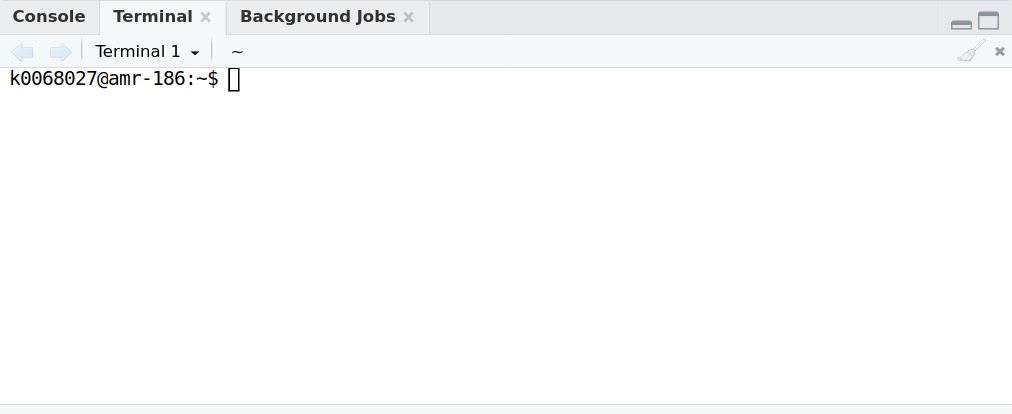
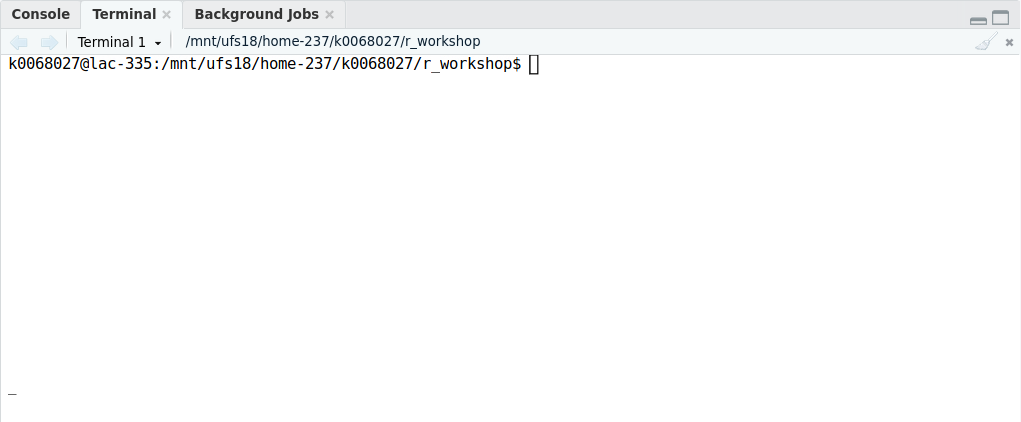
markdown source builds
Auto-generated via `{sandpaper}`
Source  : 78443e749830fc399d4e143f20efeb40afe028f5
Branch  : main
Author  : Craig Gross <craig@c-gross.net>
Time    : 2025-01-10 18:03:34 +0000
Message : Update recommendations for node types

Changed region(s): [[0.0, 0.0, 0.5514, 0.2319], [0.919, 0.029, 1.0, 0.1739], [0.0, 0.9565, 0.0306, 0.9855]]

diff --git a/rstudio-server-ondemand.md b/rstudio-server-ondemand.md
@@ -47,8 +47,9 @@ Go to the Interactive Apps tab and select RStudio Server (beta).
 
 In ICER's OnDemand interface, we use RStudio Server instead of just RStudio.
 This is a version of RStudio that runs on compute nodes and opens in your
-browser. Though it is possible to run plain RStudio on the HPCC, the Server
-version is as it displays more clearly and is easier to copy and paste into.
+browser. Though it is possible to run plain RStudio on the HPCC, we use the
+Server version is as it displays more clearly and is easier to copy and paste
+into.
 
 For the rest of this page, when we refer to "RStudio", we really mean "RStudio
 Server".
@@ -65,9 +66,14 @@ job. For this workshop, you should use the following options:
 
 ![](fig/rstudio-server-ondemand-options.png){alt='The RStudio OnDemand setup screen with text boxes for the four options listed above filled in using the values specified.'}
 
+Additionally, click the Advanced Options checkbox and under Node type,
+select "intel16" (we'll explain why later).
+
+![](fig/rstudio-node-selection.png){alt='The RStudio OnDemand setup screen with the Advanced Options box checked, and intel16 selected in the Node type dropdown.'}
+
 If you need to specify any other options (for example, if you want to run your
-session on a buy-in node and specify your SLURM account), you can click the
-Advanced Options checkbox and enter additional information.
+session on a buy-in node and specify your SLURM account), you enter additional
+information in the Advanced Options section.
 
 Select the Launch button and wait for your job to start. When your job is ready,
 you will see a card with all of the information for your job. The most important
@@ -75,7 +81,7 @@ fields for now are the Host which is the node on the HPCC where you job is
 running and the Time Remaining which counts down from the requested number of
 hours.
 
-![](fig/running-rstudio-server-job.png){alt="An OnDemand card with the information for a running RStudio job. The Host is amr-186, and the Time Remaining is 2 hours and 59 minutes."}
+![](fig/running-rstudio-server-job.png){alt="An OnDemand card with the information for a running RStudio job. The Host is lac-335, and the Time Remaining is 2 hours and 59 minutes."}
 
 When you're ready to access RStudio, you can click the Launch RStudio Server
 button. If you ever navigate away from this screen, you can always return to it
@@ -125,7 +131,7 @@ Handily, RStudio provides a terminal for you to use! Right next to the R
 console, is a Terminal tab. Clicking this tab will start a terminal on the same
 node that RStudio is running on.
 
-![](fig/rstudio-terminal.png){alt="The terminal tab in RStudio showing a terminal connected to the host amr-186."}
+![](fig/rstudio-terminal.png){alt="The terminal tab in RStudio showing a terminal connected to the host lac-335."}
 
 
 ### SSH

diff --git a/r-slurm-jobs.md b/r-slurm-jobs.md
@@ -48,6 +48,7 @@ The options let you specify things like
 - The number of cores you want to run your code on, e.g., `#SBATCH --cpus-per-task=8` for 8 cores
 - The number of nodes you need to run your code on, e.g., `#SBATCH --nodes=2` for 2 nodes
 - The amount of memory your code will need, e.g., `#SBATCH --mem=10GB` for 10GB or `--mem-per-cpu=750MB` for 750MB per core you ask for
+- The node type, e.g., `#SBATCH --constraint=intel16` to run your code only on intel16 nodes
 - The SLURM account you want to use (if you have a buy-in node), e.g., `#SBATCH --account=my_buyin` to activate the buy-in nodes associated to the `my_buyin` account
 
 Finally, you will add your code below these `#SBATCH`.
@@ -62,6 +63,7 @@ This code is exactly what you would enter on the command line to run your R scri
 #SBATCH --cpus-per-task=1  # Use 1 core
 #SBATCH --mem-per-cpu=500MB  # Use 500MB of memory per core requested
 #SBATCH --nodes=1  # Use 1 node
+#SBATCH --constraint=intel16  # Use only intel16 nodes
 
 # Load the R module
 module purge
@@ -156,6 +158,7 @@ Submit the job and compare the time it took to run with the single core job.
 #SBATCH --cpus-per-task=5  # Use 5 cores
 #SBATCH --mem-per-cpu=500MB  # Use 500MB of memory per core requested
 #SBATCH --nodes=1  # Use 1 node
+#SBATCH --constraint=intel16  # Use only intel16 nodes
 
 # Load the R module
 module purge
@@ -214,6 +217,7 @@ For the steps below, you will need the [list of SLURM job specifications](https:
 #SBATCH --cpus-per-task=5  # Use 5 cores
 #SBATCH --mem-per-cpu=500MB  # Use 500MB of memory per core requested
 #SBATCH --nodes=1  # Use 1 node
+#SBATCH --constraint=intel16  # Use only intel16 nodes
 #SBATCH --job-name=multicore
 #SBATCH --output=~/r_workshop/results/%x-%j.out
 #SBATCH --error=~/r_workshop/results/%x-%j.err
@@ -272,6 +276,7 @@ Here is an example script:
 #SBATCH --cpus-per-task=8  # Use 8 cores per task (48 in total)
 #SBATCH --mem-per-cpu=1GB  # Use 1GB of memory per core requested
 #SBATCH --nodes=2  # Distribute the tasks across 2 nodes
+#SBATCH --constraint=intel16  # Use only intel16 nodes
 
 # Load the R module
 module purge

diff --git a/managing-r-env-packages.md b/managing-r-env-packages.md
@@ -158,6 +158,22 @@ ICER](https://contact.icer.msu.edu) and we will do our best to help you out.
 
 ::::::::::::::::::::::::::::::::::::::::::
 
+:::::::::::::::::::::::::::::::::: callout
+
+## A note about node type
+
+The HPCC consists of [many different node types](https://docs.icer.msu.edu/Cluster_Resources/).
+When we started our OnDemand job, we chose to use only inte1l6 nodes. 
+
+When R installs a package, it customizes it to the specific node type it was installed on. So if you use the same library on different node types, the packages are not guaranteed to work properly, often resulting in an "Illegal instruction error" or RStudio crashing.
+
+To get around this, we recommend using the same node type when you use R, either through OnDemand, in job scripts, or [on development nodes](r-command-line.Rmd#accessing-the-hpcc-through-the-terminal).
+
+We've already seen how to do this in OnDemand (using the dropdown in the Advanced Options section). You can do this in job scripts by adding the line `#SBATCH --constraint=<nodetype>` (which we will see [in a later episode](r-slurm-jobs.Rmd#a-slurm-script-template)).
+
+Alternatively, you can use the tools discussed in this section to manually manage different libraries for different node types, though it can be tricky to manage properly.
+
+::::::::::::::::::::::::::::::::::::::::::
 
 ## Managing your projects
 

diff --git a/r-command-line.md b/r-command-line.md
@@ -37,7 +37,7 @@ ssh <netid>@hpcc.msu.edu
 ssh <dev-node>
 ```
 
-For best results, choose a development node with low usage.
+Make sure to use `dev-intel16` since [it matches the node type we used in OnDemand](managing-r-env-packages.Rmd#a-note-about-node-type).
 
 ## Loading R
 
